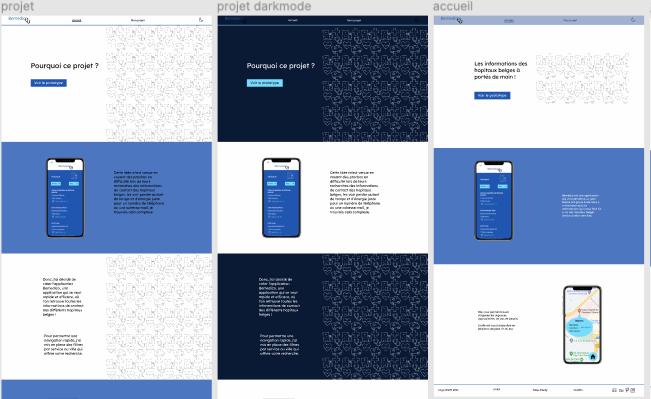
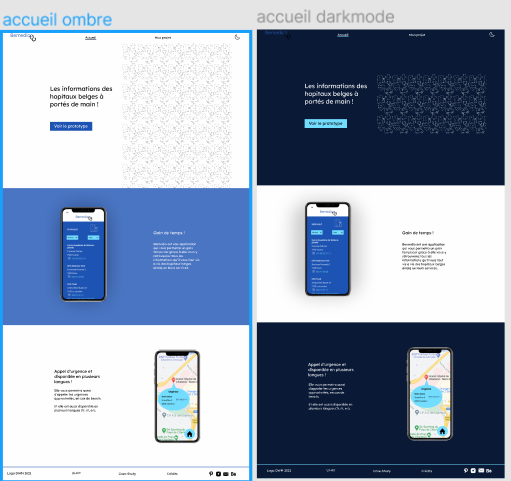
FEAT: final v2

diff --git a/src/dossierdeproduction.html b/src/dossierdeproduction.html
@@ -1,0 +1,1 @@
+<html><head><meta content="text/html; charset=UTF-8" http-equiv="content-type"><style type="text/css">ol{margin:0;padding:0}table td,table th{padding:0}.c0{padding-top:0pt;padding-bottom:16pt;line-height:1.15;page-break-after:avoid;orphans:2;widows:2;text-align:left;height:11pt}.c13{color:#000000;font-weight:400;text-decoration:none;vertical-align:baseline;font-size:36pt;font-family:"Arial";font-style:normal}.c12{padding-top:0pt;padding-bottom:3pt;line-height:1.15;page-break-after:avoid;orphans:2;widows:2;text-align:left}.c2{color:#666666;font-weight:400;text-decoration:none;vertical-align:baseline;font-size:12pt;font-family:"Arial";font-style:normal}.c7{color:#000000;font-weight:400;text-decoration:none;vertical-align:baseline;font-size:12pt;font-family:"Arial";font-style:italic}.c3{color:#000000;font-weight:400;text-decoration:none;vertical-align:baseline;font-size:12pt;font-family:"Arial";font-style:normal}.c6{color:#000000;font-weight:400;text-decoration:none;vertical-align:baseline;font-size:11pt;font-family:"Arial";font-style:italic}.c5{color:#666666;font-weight:400;text-decoration:none;vertical-align:baseline;font-size:24pt;font-family:"Arial";font-style:normal}.c14{color:#000000;font-weight:400;text-decoration:none;vertical-align:baseline;font-size:11pt;font-family:"Arial";font-style:normal}.c11{color:#000000;font-weight:400;text-decoration:none;vertical-align:baseline;font-size:18pt;font-family:"Arial";font-style:normal}.c8{padding-top:0pt;padding-bottom:16pt;line-height:1.15;page-break-after:avoid;orphans:2;widows:2;text-align:left}.c1{padding-top:0pt;padding-bottom:0pt;line-height:1.15;orphans:2;widows:2;text-align:left;height:11pt}.c16{color:#666666;font-weight:400;text-decoration:none;vertical-align:baseline;font-family:"Arial";font-style:italic}.c4{padding-top:0pt;padding-bottom:0pt;line-height:1.15;orphans:2;widows:2;text-align:left}.c15{background-color:#ffffff;max-width:451.4pt;padding:72pt 72pt 72pt 72pt}.c9{font-size:24pt}.c10{font-size:12pt}.title{padding-top:0pt;color:#000000;font-size:26pt;padding-bottom:3pt;font-family:"Arial";line-height:1.15;page-break-after:avoid;orphans:2;widows:2;text-align:left}.subtitle{padding-top:0pt;color:#666666;font-size:15pt;padding-bottom:16pt;font-family:"Arial";line-height:1.15;page-break-after:avoid;orphans:2;widows:2;text-align:left}li{color:#000000;font-size:11pt;font-family:"Arial"}p{margin:0;color:#000000;font-size:11pt;font-family:"Arial"}h1{padding-top:20pt;color:#000000;font-size:20pt;padding-bottom:6pt;font-family:"Arial";line-height:1.15;page-break-after:avoid;orphans:2;widows:2;text-align:left}h2{padding-top:18pt;color:#000000;font-size:16pt;padding-bottom:6pt;font-family:"Arial";line-height:1.15;page-break-after:avoid;orphans:2;widows:2;text-align:left}h3{padding-top:16pt;color:#434343;font-size:14pt;padding-bottom:4pt;font-family:"Arial";line-height:1.15;page-break-after:avoid;orphans:2;widows:2;text-align:left}h4{padding-top:14pt;color:#666666;font-size:12pt;padding-bottom:4pt;font-family:"Arial";line-height:1.15;page-break-after:avoid;orphans:2;widows:2;text-align:left}h5{padding-top:12pt;color:#666666;font-size:11pt;padding-bottom:4pt;font-family:"Arial";line-height:1.15;page-break-after:avoid;orphans:2;widows:2;text-align:left}h6{padding-top:12pt;color:#666666;font-size:11pt;padding-bottom:4pt;font-family:"Arial";line-height:1.15;page-break-after:avoid;font-style:italic;orphans:2;widows:2;text-align:left}</style></head><body class="c15"><div><p class="c12 title" id="h.c9ku3not5zib"><span class="c3">Ma&iuml;lys Colasse B2G2&nbsp;&nbsp;&nbsp;&nbsp;&nbsp;&nbsp;&nbsp;&nbsp;&nbsp;&nbsp;&nbsp;&nbsp;&nbsp;&nbsp;&nbsp;&nbsp;&nbsp;&nbsp;&nbsp;&nbsp;&nbsp;&nbsp;&nbsp;&nbsp;&nbsp;&nbsp;&nbsp;&nbsp;&nbsp;&nbsp;&nbsp;&nbsp;&nbsp;&nbsp;&nbsp;&nbsp;&nbsp;&nbsp;&nbsp;&nbsp;&nbsp;&nbsp;&nbsp;&nbsp;&nbsp;&nbsp;&nbsp;&nbsp;&nbsp;&nbsp;&nbsp;&nbsp;&nbsp;&nbsp;&nbsp;&nbsp;TFA 2020-2021</span></p></div><p class="c12 title" id="h.9xyc6abbf6a4"><span class="c13">Dossier de production </span></p><p class="c1"><span class="c14"></span></p><p class="c4"><span style="overflow: hidden; display: inline-block; margin: 0.00px 0.00px; border: 0.00px solid #000000; transform: rotate(0.00rad) translateZ(0px); -webkit-transform: rotate(0.00rad) translateZ(0px); width: 318.50px; height: 99.42px;"><img alt="" src="images/image1.png" style="width: 318.50px; height: 99.42px; margin-left: 0.00px; margin-top: 0.00px; transform: rotate(0.00rad) translateZ(0px); -webkit-transform: rotate(0.00rad) translateZ(0px);" title=""></span></p><p class="c4"><span class="c3">J&rsquo;ai choisi bemedico comme nom car cela refl&egrave;te bien le c&ocirc;t&eacute; belge (be) ainsi que le c&ocirc;t&eacute; m&eacute;dical (medico) que je veux exploiter dans ce projet.</span></p><p class="c1"><span class="c6"></span></p><p class="c8 subtitle" id="h.rodp7064c49b"><span class="c5">Hypoth&egrave;se </span></p><p class="c1"><span class="c7"></span></p><p class="c4"><span class="c3">J&rsquo;ai vu autour de moi plusieurs personnes qui avaient du mal &agrave; trouver les informations des h&ocirc;pitaux belges qui parfois m&ecirc;me devaient passer par plusieurs phases de recherches avant d&rsquo;obtenir ce qu&rsquo;ils souhaitent. </span></p><p class="c4"><span class="c3">Donc, c&rsquo;est pour cela que j&rsquo;ai &eacute;labor&eacute; ce projet qui est bemedico une application qui permet de retrouver toutes les informations des h&ocirc;pitaux belges sur une m&ecirc;me interface. </span></p><p class="c1"><span class="c7"></span></p><p class="c8 subtitle" id="h.n3ahhob7rhqq"><span class="c5">Mes difficult&eacute;s </span></p><p class="c1"><span class="c6"></span></p><p class="c4"><span class="c3">J&rsquo;ai &eacute;t&eacute; confront&eacute;e &agrave; plusieurs difficult&eacute;s face &agrave; ce projet. </span></p><p class="c1"><span class="c3"></span></p><p class="c4"><span class="c3">Tout d&rsquo;abord, j&rsquo;ai d&ucirc; restreindre mon projet &agrave; une fonctionnalit&eacute; car j&rsquo;en avais d&eacute;velopp&eacute; plusieurs.</span></p><p class="c4"><span class="c3">Ensuite, mon univers graphique ainsi que mon design visuel n&rsquo;&eacute;taient pas top et pratique point de vue ergonomie, ce qui ressortait de mes tests utilisateurs donc j&rsquo;ai du revoir cela en proposant un autre design. </span></p><p class="c4"><span class="c3">Je suis partie d&rsquo;un design qui allait dans tous les sens niveau graphisme, il passait &agrave; la fois par des lignes, en m&eacute;langeant les obliques ainsi que l&rsquo;arrondi, du coup j&rsquo;ai d&ucirc; me recentrer sur une forme graphique qui est rectangulaire et lign&eacute;e. </span></p><p class="c1"><span class="c3"></span></p><p class="c4"><span class="c3">J&rsquo;ai &eacute;prouv&eacute; des difficult&eacute;s aussi sur le d&eacute;veloppement de mes filtres et de mon menu dans mon mvp.</span></p><p class="c4"><span class="c3">Je suis pass&eacute;e par un onglet qui s&rsquo;ouvrait en mode pop up mais cela n&rsquo;est pas pratique pour une version mobile. Du coup, j&rsquo;ai repens&eacute; celui ci pour qu&rsquo;il soit affich&eacute; sur toute la page mais encore une fois l&agrave;, j&#39;avais m&eacute;lang&eacute; du flou et de la couleur ce qui ne se faisait pas. Donc, j&rsquo;ai choisi de ne mettre que de la couleur et de couvrir &agrave; 100% l&rsquo;&eacute;cran pour que cela soit accessible et facile d&rsquo;utilisation. </span></p><p class="c1"><span class="c3"></span></p><p class="c4"><span class="c3">Ensuite dans le header, j&rsquo;affichais les langues les unes &agrave; la suite des autres ce qui n&rsquo;&eacute;tait pas super visuellement donc, j&rsquo;ai d&eacute;cid&eacute; de faire un menu pour celles-ci.</span></p><p class="c4"><span class="c3">Pour ce qui est de mon footer, je suis pass&eacute;e un peu par toutes les directions, j&rsquo;ai plac&eacute; une bande puis des boutons mais ergonomiquement parlant cela n&rsquo;&eacute;tait pas tr&egrave;s pratique ainsi que pour l&rsquo;ui donc je les ai enlev&eacute; pour ne conserver que le bouton d&rsquo;urgence dans le footer. </span></p><p class="c1"><span class="c3"></span></p><p class="c4"><span class="c3">J&rsquo;ai eu du mal aussi &agrave; faire une landing page qui faisait correctement ressortir mon projet avec les bons textes, je suis pass&eacute;e par un design &eacute;pur&eacute; avec un background image et flou, ainsi que des ombres sur les images et le texte mais encore une fois, je me suis &eacute;parpill&eacute;e donc je me suis recentr&eacute;e sur un design montrant les diff&eacute;rents blocs de mon projet ainsi qu&rsquo;un patterns pour que celle ci ne soit pas trop redondant point de vue image, j&rsquo;ai enlev&eacute; les ombres pour n&rsquo;en garder qu&rsquo;une seule et j&rsquo;ai reformul&eacute; mes textes ainsi que mis en place des titres pour que cela soit plus accrocheur ainsi que placer un bloc de couleurs pour mieux voir les &eacute;tapes. </span></p><p class="c1"><span class="c3"></span></p><p class="c1"><span class="c3"></span></p><p class="c8 subtitle" id="h.aaqv2jlnkyh"><span class="c5">Ce que j&rsquo;aurais fait diff&eacute;remment</span></p><p class="c1"><span class="c6"></span></p><p class="c4"><span class="c3">Pour mon projet, je me suis trop dispers&eacute;e au lieu de recentrer mes id&eacute;es ce qui m&rsquo;a jou&eacute; des tours, j&rsquo;aurai du penser directement &agrave; l&#39;accessibilit&eacute; et faire un moodboard qui m&rsquo;aurais permis de savoir mon orientation graphique et ne pas tout m&eacute;langer au lieu de foncer avec des id&eacute;es qui &eacute;taient un peu fouillie. </span></p><p class="c1"><span class="c6"></span></p><p class="c1"><span class="c6"></span></p><p class="c8 subtitle" id="h.3x3aecs6aqj9"><span class="c5">Techniques utilis&eacute;es </span></p><p class="c1"><span class="c6"></span></p><p class="c4"><span class="c3">J&rsquo;ai utilis&eacute; Adobe illustrator pour mes pictos ainsi que pass&eacute; par figma pour mon mvp et ma landing page avant de la d&eacute;velopper. J&rsquo;ai effectu&eacute; plusieurs tests utilisateurs ainsi que fait des user journey pour pouvoir int&eacute;grer les bonnes fonctions dans mon MVP. J&rsquo;ai aussi effectu&eacute; des interviews et pos&eacute; des questions autour de moi pour savoir comment les gens comprenaient mon projet. J&rsquo;ai effectu&eacute; des moodboards et recherches visuels et graphiques pour pouvoir cr&eacute;er la bonne identit&eacute; pour mon projet.</span></p><p class="c1"><span class="c3"></span></p><p class="c8 subtitle" id="h.fcj6o5pka5i4"><span class="c5">Tests utilisateurs</span></p><p class="c1"><span class="c3"></span></p><p class="c4"><span class="c3">J&rsquo;ai effectu&eacute; plusieurs tests utilisateurs que ce soit de mon mvp ou de ma landing page. </span></p><p class="c4"><span class="c3">C&rsquo;est comme &ccedil;a que j&rsquo;ai pu r&eacute;aliser les soucis d&#39;accessibilit&eacute; ainsi que de couleurs qu&rsquo;il y avait sur mon mvp et ainsi am&eacute;liorer mon projet, plusieurs personnes m&rsquo;ont fait remarquer que les boutons filtres &eacute;taient beaucoup trop petits donc ce qui causait un probl&egrave;me point de vue de l&#39;accessibilit&eacute; ce que j&rsquo;ai modifi&eacute; ce qu&rsquo;il leurs a permis de pouvoir mieux les utiliser. </span></p><p class="c4"><span class="c3">D&rsquo;autres utilisateurs m&rsquo;ont fait part du probl&egrave;me de la barre oblique avec les lettres qui &eacute;tait beaucoup trop petite et inexploitable c&rsquo;est pour cela que je l&rsquo;ai agrandie et mieux repositionn&eacute;e. </span></p><p class="c4"><span class="c3">D&rsquo;autre ne comprenaient pas trop le sens de mon bouton urgence qui am&egrave;ne direct sur une carte donc j&rsquo;ai modifi&eacute; celui-ci pour que l&rsquo;on comprenne mieux le but de retrouver les h&ocirc;pitaux &agrave; proximit&eacute; en cas d&rsquo;urgence.</span></p><p class="c1"><span class="c3"></span></p><p class="c4"><span class="c3">J&rsquo;ai aussi demand&eacute; ce qu&rsquo;ils pensaient de celle-ci, s&#39; ils comprenaient le but, si ils arrivaient &agrave; se d&eacute;brouiller et acc&eacute;der &agrave; tout ce qu&#39;ils voulaient; Tous les utilisateurs ont direct compris le but de l&rsquo;application ainsi que la fonction de celle ci ce qui est un point important dans le d&eacute;veloppement de ce projet. </span></p><p class="c1"><span class="c3"></span></p><p class="c4"><span class="c3">J&rsquo;ai test&eacute; les diff&eacute;rentes versions de ma landing page aussi pour savoir si les couleurs, les textes &eacute;taient assez coh&eacute;rents avec mon projet, je suis pass&eacute;e par diff&eacute;rents graphismes parfois qui pour moi me paraissait lisible et facile or, que certains n&rsquo;arrivait pas &agrave; lire le texte dans un certain contraste de couleurs donc j&rsquo;ai revu cela. </span></p><p class="c1"><span class="c3"></span></p><p class="c4"><span class="c3">Tous ces tests m&rsquo;ont permis de faire attention au regard de chacun et d&rsquo;apporter la meilleure version de mon projet. </span></p><p class="c1"><span class="c7"></span></p><p class="c0 subtitle" id="h.692ogzkdhih7"><span class="c10 c16"></span></p><p class="c8 subtitle" id="h.y2pb8l6byto9"><span class="c9">L</span><span class="c5">e futur ?</span></p><p class="c4"><span class="c3">Pour le futur, je pr&eacute;vois d&rsquo;ajouter un onglet pour avoir acc&egrave;s &agrave; son profil perso o&ugrave; l&rsquo;on retrouvera son dossier m&eacute;dical ainsi que ses informations personnelles et ses rendez vous. </span></p><p class="c4"><span class="c3">Il y aura aussi un onglet sp&eacute;cial pour le covid pour voir les centres de d&eacute;pistage le plus proche et les r&egrave;gles &agrave; suivre d&egrave;s que l&rsquo;on est touch&eacute; par le virus ainsi que les informations pour se faire vacciner. </span></p><p class="c8 subtitle" id="h.52izdazeebf0"><span class="c9">Pour finir</span></p><p class="c4"><span class="c10">En conclusion, cette application plait &agrave; beaucoup de monde car elle est tr&egrave;s facile et rapide d&#39;acc&egrave;s ainsi que le fait d&rsquo;avoir toutes ces informations &agrave; port&eacute;e de mains a &eacute;norm&eacute;ment s&eacute;duit.</span></p><div><p class="c1"><span class="c14"></span></p></div></body></html>

diff --git a/src/case-study.html b/src/case-study.html
@@ -74,40 +74,46 @@
                      le résultat que je souhaitais.
                  </p>
 
-                 <h2 class="dgrid-start7">Découverte</h2>
+                 <h2 class="dgrid-start21">Découverte</h2>
                  <p class="tgrid-start14 dgrid-start7">J’ai remarqué que visuellement j’osais aussi partir dans d'autre direction, tester de nouvelles choses, 
                     m'informer et découvrir de nouveaux horizons. Je me permets de sortir de ma zone de confort et ça j’adore. 
                 </p>
                 <img class="site" src="assets/images/rux.jpg" srcset="assets/images/rux.jpg 2x" alt="capture écran de mon site RUX">
-                <img class="site " src="assets/images/iolce.jpg" srcset="assets/images/iolce.jpg 2x" alt="capture écran de mon site Iolce">
+                <figcaption>Aperçu de mon 3ème site</figcaption>
+                <img class="site" src="assets/images/iolce.jpg" srcset="assets/images/iolce.jpg 2x" alt="capture écran de mon site Iolce">
+                <figcaption class="tgrid-start26 dgrid-start7">Aperçu de mon 2ème site</figcaption>
 
-                <h2 class="dgrid-start6">L'utilité des test utilisateurs</h2>
-                <p class="tgrid-start15 dgrid-start6">
+                <h2 class="tgrid-start26 dgrid-start22">L'utilité des test utilisateurs</h2>
+                <p class="tgrid-start15 dgrid-start23">
                     Pour faire ce projet, j’ai effectué plusieurs tests utilisateurs ainsi que user journey. Honnêtement,  
                     je ne comprenais pas trop le but au départ de cette démarche dans mes anciens projets mais maintenant 
                     je trouve cela hyper important pour développer quelque chose car c’est grâce aux utilisateurs que j’ai 
                     pu me rendre compte de certaines de mes erreurs et améliorer mon projet. Ainsi qu'à l'aide de mes 
                     user journey de penser efficacement au développement de mon mvp.
                 </p>
-                <img class="maquette" src="assets/images/user.png" srcset="assets/images/user.png 2x" alt="capture écran de mes user journey">
+                <img src="assets/images/user.png" srcset="assets/images/user.png 2x" alt="capture écran de mes user journey">
+                <figcaption class="dgrid-start24"> <span class="evidence"><a href="https://www.figma.com/proto/2Qi9KmbwKFtApPd1VY0UiM/User-journey-TFA?node-id=105%3A102&scaling=contain&page-id=17%3A2&fbclid=IwAR0FBg6G8tACDCuylCgF_yUeu3O9TPOSV4CcTZ9psKf75kyffCzQa-1Nv9E">Aperçu de mes users journeys</a></span></figcaption>
+           
+    
                 
-                <h2 class="dgrid-start7">Mieux gérer mon organisation</h2>
-                <p class="tgrid-start16 dgrid-start7">
+                <h2 class="tgrid-start16 dgrid-start24">Mieux gérer mon organisation</h2>
+                <p class="tgrid-start27 dgrid-start25">
                     J’ai réussi à mieux organiser mon projet à moins partir dans tous les sens, à effectuer plus de recherche ainsi 
                     que faire des moodboards, des maquettes avant de coder mon idée ce qui est plus facile, permet un gain de temps 
                     et me permets de moins me perdre dans mon code. 
                 </p>
                 <img class="maquette" src="assets/images/maquette.png" srcset="assets/images/maquette.png 2x" alt="Maquette de ma landing page">
-                <img class="maquette" src="assets/images/moodboard.png" srcset="assets/images/moodboard.png 2x" alt="Mon moodboard avec les inspirations pour la landing page">
-                
+                <figcaption>Maquette de ma landing page</figcaption>
+                <img class="maquette dgrid-start26" src="assets/images/moodboard.png" srcset="assets/images/moodboard.png 2x" alt="Mon moodboard avec les inspirations pour la landing page">
+                <figcaption class="tgrid-start17 dgrid-start30"> Mes inspirations pour ma landing page</figcaption>
                   
-                <h2 class="dgrid-start6">La fin</h2>
-                <p class="tgrid-start17 dgrid-start6">
+                <h2 class="tgrid-start17  dgrid-start29">La fin</h2>
+                <p class="tgrid-start28 dgrid-start27">
                     Pour finir ce projet m’a fait évoluer sur plein de choses et ça c’est top. Il m'a permis aussi de m’ouvrir plus 
                     et d’avoir un autre regard sur certaines choses. 
                 </p>
                
-                <p class="tgrid-start18 dgrid-start6">N'hésitez pas à jeter un oeil a mon dossier de <span class="evidence"><a href="https://www.figma.com/proto/EQH0xiZd5A5OLxFnev9VP4/TFA-final?scaling=scale-down&page-id=0%3A1&node-id=1%3A2">production </a></span>!</p>
+                <p class="tgrid-start18 dgrid-start28">N'hésitez pas à jeter un oeil a mon dossier de <span class="evidence"><a href="dossierdeproduction.html">production </a></span>!</p>
 
             </section>   
         

diff --git a/src/assets/sass/_grid.scss b/src/assets/sass/_grid.scss
@@ -114,6 +114,7 @@
         grid-column-start: 2;
         grid-column-end: 4; 
         grid-row-start: 8;
+        margin-top: 100px;
     }
     .tgrid-start16{
         grid-column-start: 2;
@@ -168,6 +169,33 @@
         grid-row-start: 5;
         padding: 20px;
         margin-top: 50px;
+    }
+    .tgrid-start26{
+        grid-column-start: 2;
+        grid-column-end: 4; 
+        grid-row-start: 8;
+    }
+    .tgrid-start27{
+        grid-column-start: 2;
+        grid-column-end: 4; 
+        grid-row-start: 11;
+        margin-top: 90px;
+    }
+    .tgrid-start28{
+        grid-column-start: 2;
+        grid-column-end: 4; 
+        grid-row-start: 15;
+        margin-top: 90px;
+    }
+    .tgrid-start29{
+        grid-column-start:2;
+        grid-column-end: 4;
+        grid-row-start: 2;
+    }
+    .tgrid-start30{
+        grid-column-start:2;
+        grid-column-end: 4;
+     padding: 20px;
     }
 }
 
@@ -236,7 +264,7 @@
     .dgrid-start10{
         grid-column-start: 4;
         grid-column-end: 5;
-        grid-row-start: 3;
+        grid-row-start: 1;
         margin-top: 20px;
     }
     .dgrid-start11{
@@ -267,6 +295,7 @@
         grid-column-start: 1;
         grid-column-end: 3;  
         grid-row-start: 4;
+
     }
     .dgrid-start16{
         grid-column-start: 1;
@@ -300,6 +329,72 @@
         grid-column-end: 5;
         grid-row-start: 2;
         margin-top: 100px;
+    }
+    .dgrid-start21{
+        grid-column-start: 2;
+        grid-column-end: 4;
+        grid-row-start: 3;
+      
+    }
+    .dgrid-start22{
+        grid-column-start: 4;
+        grid-column-end: 5;
+        grid-row-start: 8;
+      
+    }
+    .dgrid-start23{
+        grid-column-start: 4;
+        grid-column-end: 5;
+        grid-row-start: 9;
+      
+    }
+    .dgrid-start24{
+        grid-column-start: 2;
+        grid-column-end: 4;
+        grid-row-start: 11;
+      
+    }
+    .dgrid-start25{
+        grid-column-start: 2;
+        grid-column-end: 4;
+        grid-row-start: 12;
+      
+    }
+    .dgrid-start26{
+        grid-column-start: 2;
+        grid-column-end: 5;
+        grid-row-start: 15;
+      
+    }
+    .dgrid-start27{
+        grid-column-start: 4;
+        grid-column-end: 5;
+        grid-row-start: 17;
+      
+    }
+    .dgrid-start28{
+        grid-column-start: 4;
+        grid-column-end: 5;
+        grid-row-start: 18;
+      
+    }
+    .dgrid-start29{
+        grid-column-start: 4;
+        grid-column-end: 5;
+        grid-row-start: 16;
+      
+    }
+    .dgrid-start30{
+        grid-column-start: 2;
+        grid-column-end: 4;
+        grid-row-start: 16;
+      
+    }
+    .dgrid-start31{
+        grid-column-start: 2;
+        grid-column-end: 4;  
+        margin-top: -30px; 
+     
     }
 }
 

diff --git a/src/projet.html b/src/projet.html
@@ -61,7 +61,7 @@
 
                 <h1 class="title tgrid-start7 dgrid-start17">Pourquoi ce projet ?</h1>
                   
-                <span class="proto proto--projet mgrid-start3 tgrid-start3 dgrid-start16"><a href="https://www.figma.com/proto/EQH0xiZd5A5OLxFnev9VP4/TFA-final?node-id=120%3A565&scaling=scale-down&page-id=120%3A522">Voir le prototype</a></span>
+                <span class="proto proto--projet mgrid-start3 tgrid-start29 dgrid-start16"><a href="https://www.figma.com/proto/EQH0xiZd5A5OLxFnev9VP4/TFA-final?node-id=120%3A565&scaling=scale-down&page-id=120%3A522">Voir le prototype</a></span>
     
         
             </section>
@@ -71,7 +71,7 @@
       
                 <div class="rectangle rectangle--projet"></div>
 
-                <p class="paragraphe tgrid-start7 dgrid-start7">Cette idée m'est venue en voyant des proches en difficulté lors de leurs recherches des informations de contact des hopitaux belges,
+                <p class="paragraphe tgrid-start30 dgrid-start31">Cette idée m'est venue en voyant des proches en difficulté lors de leurs recherches des informations de contact des hopitaux belges,
                     les voir perdre autant de temps et d'énergie juste pour un numéro de téléphone ou une adresse mail, je trouvais cela complexe.
                 </p>
                 

diff --git a/src/assets/sass/_layout.scss b/src/assets/sass/_layout.scss
@@ -225,13 +225,13 @@ a{
     }
     .rectangle--projet__2{
         height: 550px;
-        top: 1000px;
+        top: 1050px;
     }
     .site{
         width: 40%;
     }
     .maquette{
-        width: 100%;
+        width: 800px;
     }
     /*bouton*/
     .bouton{
@@ -304,7 +304,7 @@ a{
     }
     .rectangle--projet__2{
         height: 590px;
-        top: 1400px;
+        top: 1420px;
     }
    
     .maquette{
